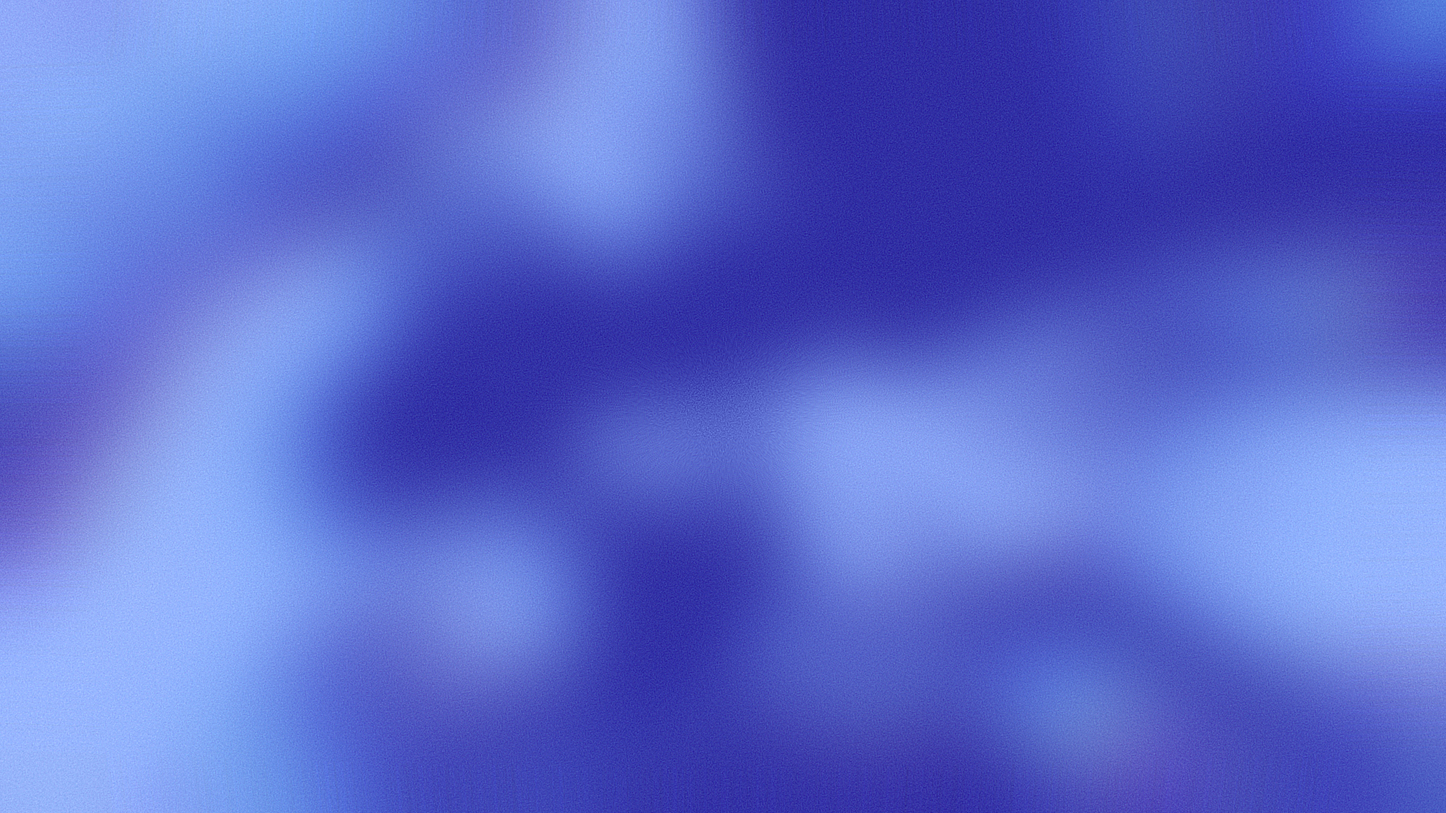
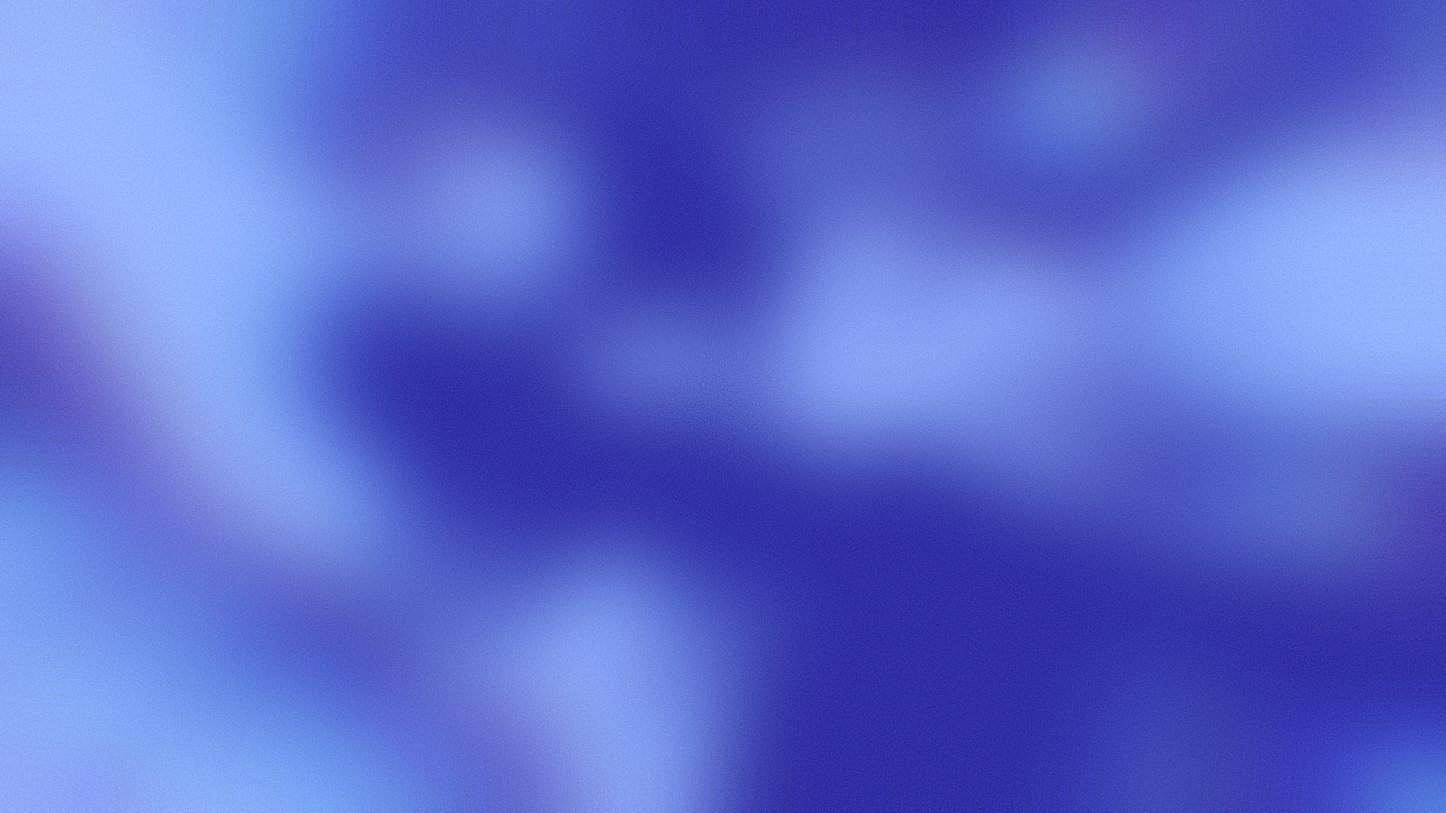
Buttons

diff --git a/components/FeedItem.tsx b/components/FeedItem.tsx
@@ -3,6 +3,8 @@ import Image from "next/image";
 import { RadarChart } from "./ChartData";
 import Appeal from "@/components/Appeal";  // Import the new component
 import Clarity from "./Clarity";
+import Critical from "./Critical";
+import Style from "./Style";
 
 interface FeedItemProps {
   turn_number: number;
@@ -39,7 +41,7 @@ const FeedItem: React.FC<FeedItemProps> = ({
   isPlaying,
   onPlay,
 }) => {
-  const [mainTab, setMainTab] = useState("total");
+  const [mainTab, setMainTab] = useState("appeal");
 
 
   const audioRef = useRef<HTMLAudioElement>(null);
@@ -195,8 +197,19 @@ const FeedItem: React.FC<FeedItemProps> = ({
           )}
         
           {/* You can add conditional rendering for other tabs here */}
-          {mainTab === "style" && <div>Style content goes here</div>}
-          {mainTab === "clarity" && <div><Clarity
+          {mainTab === "style" && <div>
+            <Style
+              ethosScore={ethosScore}
+              pathosScore={pathosScore}
+              logosScore={logosScore}
+              showChart={showChart}
+              activeTab={activeTab}
+              setActiveTab={setActiveTab}
+              isQuestion={isQuestion}
+            />
+          </div>}
+          {mainTab === "clarity" && <div>
+            <Clarity
               ethosScore={ethosScore}
               pathosScore={pathosScore}
               logosScore={logosScore}
@@ -205,14 +218,57 @@ const FeedItem: React.FC<FeedItemProps> = ({
               setActiveTab={setActiveTab}
               isQuestion={isQuestion}
             /></div>}
-          {mainTab === "criticalThinking" && <div>Critical Thinking content goes here</div>}
+          {mainTab === "criticalThinking" && <div>
+            <Critical
+              ethosScore={ethosScore}
+              pathosScore={pathosScore}
+              logosScore={logosScore}
+              showChart={showChart}
+              activeTab={activeTab}
+              setActiveTab={setActiveTab}
+              isQuestion={isQuestion}
+            />
+            </div>}
           {/* Tab buttons */}
-          <div className="tabs flex justify-center gap-4 my-4">
+          <div className="tabs flex justify-center gap-5 my-4 text-xl !items-center">
             <button onClick={() => setMainTab("total")}>Total</button>
-            <button onClick={() => setMainTab("appeal")}>Appeal</button>
-            <button onClick={() => setMainTab("style")}>Style</button>
-            <button onClick={() => setMainTab("clarity")}>Clarity</button>
-            <button onClick={() => setMainTab("criticalThinking")}>Critical Thinking</button>
+            <button onClick={() => setMainTab("appeal")}>
+              <Image
+              src="/icons/hearts-icon.svg"
+              alt="clarity"
+              width={28}
+              height={28}
+              className="block mx-auto"
+              />
+              </button>
+            <button onClick={() => setMainTab("style")}>
+            <Image
+              src="/icons/star-icon.svg"
+              alt="clarity"
+              width={28}
+              height={28}
+              className="block mx-auto"
+              />
+            </button>
+
+            <button onClick={() => setMainTab("clarity")}>
+              <Image
+              src="/icons/target-icon.svg"
+              alt="clarity"
+              width={28}
+              height={28}
+              className="block mx-auto"
+              />
+            </button>
+
+            <button onClick={() => setMainTab("criticalThinking")}>
+              <Image
+              src="/icons/zap-icon.svg"
+              alt="clarity"
+              width={28}
+              height={28}
+              className="block mx-auto"
+              /></button>
           </div>
         </div>
         

diff --git a/components/Appeal.tsx b/components/Appeal.tsx
@@ -112,15 +112,15 @@ const Appeal: React.FC<AnalysisProps> = ({
                     <div className="text-lg text-center md:text-xl">
                       Logos Reasoning
                     </div>
-                    <div className="reasoning poppins text-base md:text-lg">
-                    Sed ut perspiciatis unde omnis iste natus error sit voluptatem accusantium doloremque laudantium, totam rem aperiam, eaque ipsa quae ab illo inventore veritatis et quasi architecto beatae vitae dicta sunt explicabo. Nemo enim ipsam voluptatem quia voluptas sit aspernatur aut odit aut fugit, sed quia consequuntur magni dolores eos qui ratione voluptatem sequi nesciunt.
+                    <div className="reasoning poppins text-base w-full h-fit md:text-lg">
+                    Sed ut perspic unde omnis iste natus error sit voluptatem accusantium doloremque laudantium, totam rem aperiam, eaque ipsa quae ab illo inventore veritatis et quasi archi beatae vitae dicta sunt explicabo. Nemo enim ipsam voluptatem quia volqui nesciunt.
                     </div>
                   </div>
                   </div>
                 </div>
               )}
               <div
-          className={`tabs flex w-fit !shadow-none text-lg md:text-xl h-fit px-[12px] py-[1px] items-center rounded-full mx-auto gap-2 md:gap-4 !bg-transparent ${
+          className={`tabs flex w-fit !shadow-none text-lg md:text-xl h-fit px-[12px] py-[1px] items-center rounded-full mx-auto gap-2 !bg-transparent ${
             isQuestion ? "white-opaque" : "black-opaque"
           }`}
         >
@@ -130,7 +130,7 @@ const Appeal: React.FC<AnalysisProps> = ({
             }`}
             onClick={() => setActiveTab("summary")}
           >
-            all
+            1
           </button>
           <button
             className={`px-[10px] py-[1px] rounded-[40px] tab-btn ${
@@ -138,7 +138,7 @@ const Appeal: React.FC<AnalysisProps> = ({
             }`}
             onClick={() => setActiveTab("ethos")}
           >
-            ethos
+            2
           </button>
           <button
             className={`px-[10px] py-[1px] rounded-[40px] tab-btn ${
@@ -146,7 +146,7 @@ const Appeal: React.FC<AnalysisProps> = ({
             }`}
             onClick={() => setActiveTab("pathos")}
           >
-            pathos
+            3
           </button>
           <button
             className={` px-[10px] py-[1px] rounded-[40px] tab-btn ${
@@ -154,7 +154,7 @@ const Appeal: React.FC<AnalysisProps> = ({
             }`}
             onClick={() => setActiveTab("logos")}
           >
-            logos
+            4
           </button>
         </div>
             </div>

diff --git a/components/Critical.tsx b/components/Critical.tsx
@@ -9,7 +9,7 @@ interface AnalysisProps {
   isQuestion: boolean;
 }
 
-const Clarity: React.FC<AnalysisProps> = ({
+const Critical: React.FC<AnalysisProps> = ({
   ethosScore,
   pathosScore,
   logosScore,
@@ -38,7 +38,7 @@ const Clarity: React.FC<AnalysisProps> = ({
           </div>
         </div>
         {showChart && (
-          <div className="analysis-content grid grid-cols-1 xl:grid-cols-2 w-full rounded-[40px] black-opaque h-fit !bg-[url('/bg/clarity.webp')] !bg-cover !bg-center p-[24px]">
+          <div className="analysis-content grid grid-cols-1 xl:grid-cols-2 w-full rounded-[40px] black-opaque h-fit !bg-[url('/bg/critical.webp')] !bg-cover !bg-center p-[24px]">
             <div className="chart box w-full h-fit">
             {activeTab === "summary" && (
               <RadarChart ethos={ethosScore} pathos={pathosScore} logos={logosScore} />
@@ -166,4 +166,4 @@ const Clarity: React.FC<AnalysisProps> = ({
   );
 };
 
-export default Clarity;
+export default Critical;

diff --git a/components/Style.tsx b/components/Style.tsx
@@ -9,7 +9,7 @@ interface AnalysisProps {
   isQuestion: boolean;
 }
 
-const Clarity: React.FC<AnalysisProps> = ({
+const Style: React.FC<AnalysisProps> = ({
   ethosScore,
   pathosScore,
   logosScore,
@@ -38,7 +38,7 @@ const Clarity: React.FC<AnalysisProps> = ({
           </div>
         </div>
         {showChart && (
-          <div className="analysis-content grid grid-cols-1 xl:grid-cols-2 w-full rounded-[40px] black-opaque h-fit !bg-[url('/bg/clarity.webp')] !bg-cover !bg-center p-[24px]">
+          <div className="analysis-content grid grid-cols-1 xl:grid-cols-2 w-full rounded-[40px] black-opaque h-fit !bg-[url('/bg/style.webp')] !bg-cover !bg-center p-[24px]">
             <div className="chart box w-full h-fit">
             {activeTab === "summary" && (
               <RadarChart ethos={ethosScore} pathos={pathosScore} logos={logosScore} />
@@ -166,4 +166,4 @@ const Clarity: React.FC<AnalysisProps> = ({
   );
 };
 
-export default Clarity;
+export default Style;

diff --git a/app/globals.css b/app/globals.css
@@ -280,6 +280,8 @@ html, body {
   background: rgba(255, 255, 255, 0.8);
   box-shadow: 0px 4px 15px 0px rgba(0, 0, 0, 0.25);
   color: rgb(0, 0, 0);
+  transition: all;
+  scale: 110%;
 }
 
 
